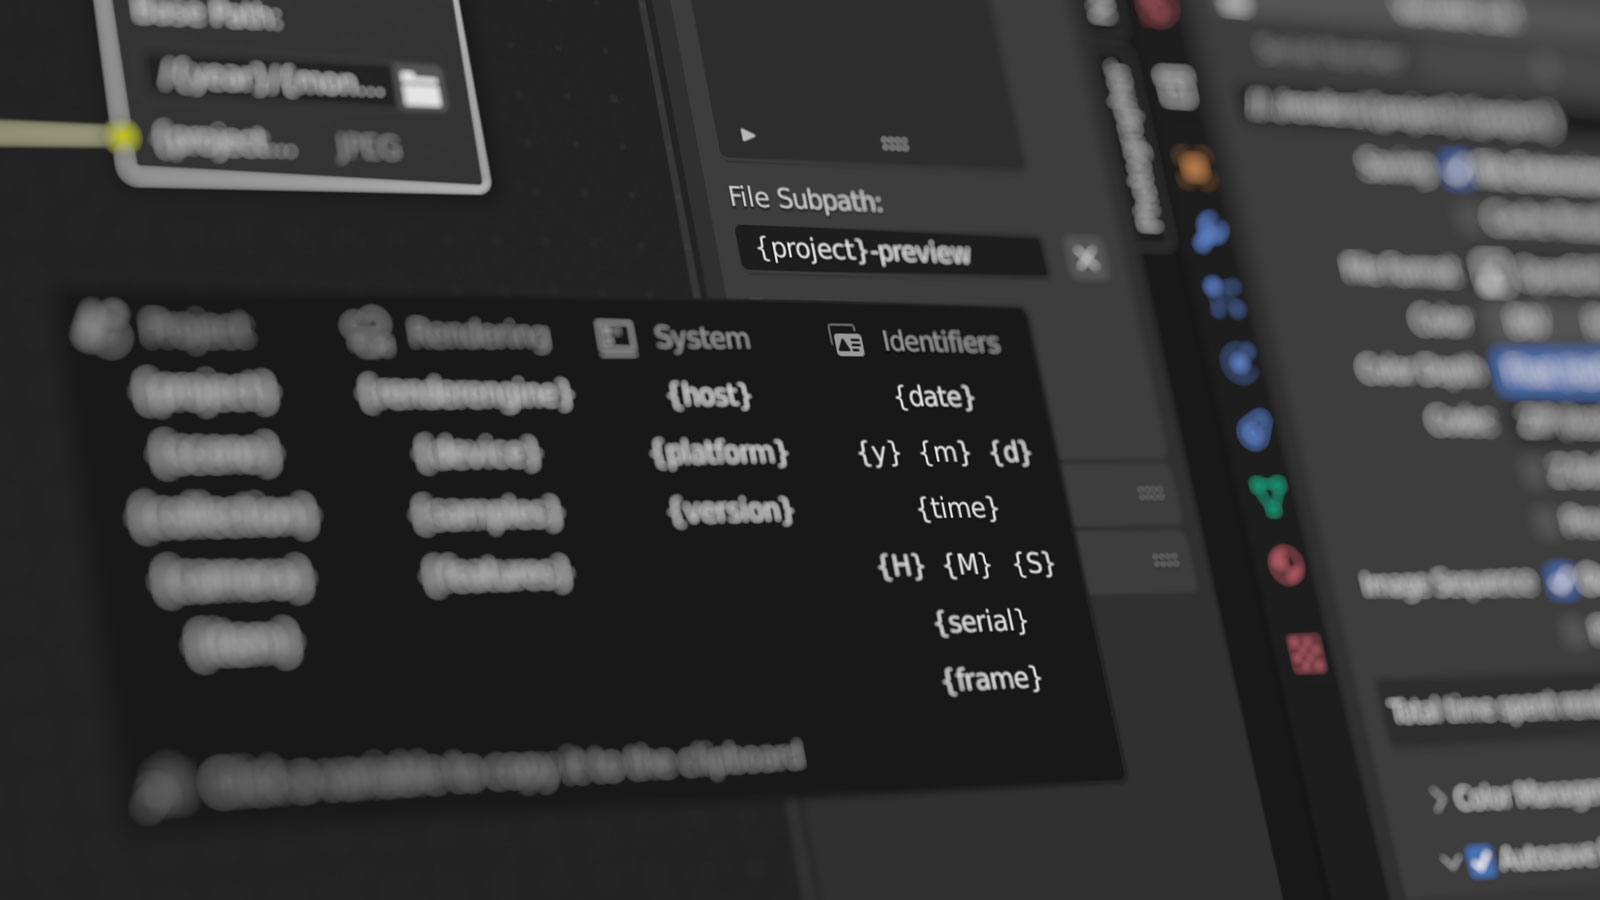
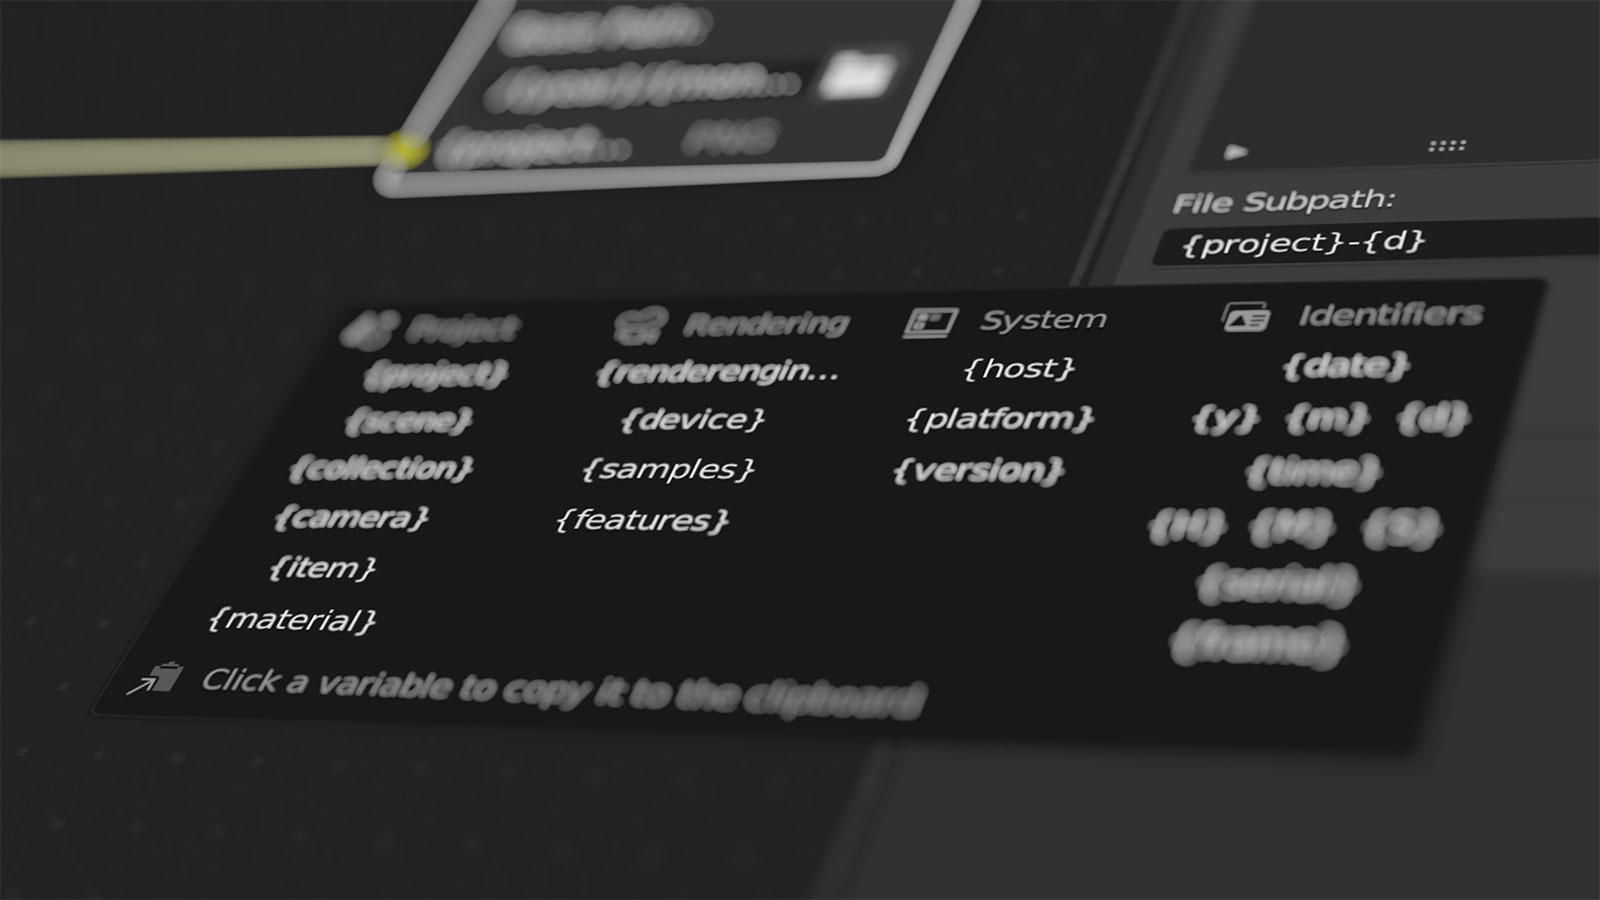
Adding active material of active object output variable

diff --git a/VF_autosaveRender.py b/VF_autosaveRender.py
@@ -1,7 +1,7 @@
 bl_info = {
 	"name": "VF Autosave Render + Output Variables",
 	"author": "John Einselen - Vectorform LLC, based on work by tstscr(florianfelix)",
-	"version": (2, 0, 8),
+	"version": (2, 0, 9),
 	"blender": (3, 2, 0),
 	"location": "Scene Output Properties > Output Panel > Autosave Render",
 	"description": "Automatically saves rendered images with custom naming",
@@ -48,7 +48,7 @@ IMAGE_EXTENSIONS = (
 	'tif'
 )
 
-variableArray = ["title,Project,SCENE_DATA", "{project}", "{scene}", "{collection}", "{camera}", "{item}",
+variableArray = ["title,Project,SCENE_DATA", "{project}", "{scene}", "{collection}", "{camera}", "{item}", "{material}",
 				"title,Rendering,CAMERA_DATA", "{renderengine}", "{device}", "{samples}", "{features}", "{rendertime}",
 				"title,System,DESKTOP", "{host}", "{platform}", "{version}",
 				"title,Identifiers,COPY_ID", "{date}", "{y},{m},{d}", "{time}", "{H},{M},{S}", "{serial}", "{frame}"]
@@ -432,6 +432,7 @@ def replaceVariables(string):
 	string = string.replace("{collection}", bpy.context.collection.name)
 	string = string.replace("{camera}", bpy.context.scene.camera.name)
 	string = string.replace("{item}", bpy.context.view_layer.objects.active.name if bpy.context.view_layer.objects.active else 'None')
+	string = string.replace("{material}", bpy.context.view_layer.objects.active.active_material.name if bpy.context.view_layer.objects.active and bpy.context.view_layer.objects.active.active_material else 'None')
 	# Rendering variables
 	string = string.replace("{renderengine}", renderEngine)
 	string = string.replace("{device}", renderDevice)

diff --git a/README.md b/README.md
@@ -1,6 +1,6 @@
 # VF Autosave Render + Output Variables
 
-Automatically saves a numbered or dated image after every render and extends the Blender output path and compositing output node with dynamic variables. This Blender add-on helps automate file naming (enabling easier and more advanced production workflows) and makes test renders easier to review and compare (saving what would otherwise be overwritten or lost when quitting the app).
+Automatically saves a numbered or dated image after every render and extends the Blender output path and compositing output node with dynamic variables. This Blender add-on helps automate file naming (enabling more advanced production workflows) and makes test renders easier to review and compare (saving what would otherwise be overwritten or lost when quitting the app).
 
 ![screenshot of the variable popup window in the compositing tab](images/banner.jpg)
 
@@ -17,7 +17,7 @@ _**Warning:**_ version 2 of this add-on changes the capitalisation of the file, 
 
 ![screenshot of Blender's Render Output user interface with the add-on installed](images/screenshot0-main.png)
 
-The default settings will work as-is, saving each render in a folder alongside the project file. But there's more...
+The default settings will work as-is, saving each render in a folder alongside the project file with automatic serialisation and JPG compression. But significant customisation is possible, especially through the use of output path and file name variables.
 
 
 
@@ -33,13 +33,13 @@ Add-on preferences are found in the Blender Preferences panel add-on tab, at the
 
 ### Render Time
 - `Show Project Render Time` toggles the "total time spent rendering" display in the Blender Output panel
-  - `Total Render Time` allows manual adjustment or resetting of the current project's render time tracking (this is the only non-global per-project value in the plugin settings panel)
+	- `Total Render Time` allows manual adjustment or resetting of the current project's render time tracking (this is the only non-global per-project value in the plugin settings panel)
 - `Save External Render Time Log` enables tracking of render time outside of the Blender file, supporting tracking during command line rendering (where the internal project value is typically not saved) or tallying the render time for all Blender projects in the same directory
-  - Sub-folders and relative paths can be used (not absolute paths)
-  - Only the `{project}` dynamic variable is supported
-  - The default string `{project}-TotalRenderTime.txt` will save a dynamically labeled file alongside the project (logging render time per-project since each log file would be named per-project)
-  - Using `TotalRenderTime.txt` will allow all Blender files in the same directory to use the same log file (logs would be per-directory, not per-project)
-  - Whereas `{project}/TotalRenderTime.txt` will save the log file inside the default autosave directory (this is specific to MacOS and Linux; backslash would be required in Windows)
+	- Sub-folders and relative paths can be used (not absolute paths)
+	- Only the `{project}` dynamic variable is supported
+	- The default string `{project}-TotalRenderTime.txt` will save a dynamically labeled file alongside the project (logging render time per-project since each log file would be named per-project)
+	- Using `TotalRenderTime.txt` will allow all Blender files in the same directory to use the same log file (logs would be per-directory, not per-project)
+	- Whereas `{project}/TotalRenderTime.txt` will save the log file inside the default autosave directory (this is specific to MacOS and Linux; backslash would be required in Windows)
 - `Estimate Remaining Render Time` turns on animation render time estimation in the render window menu bar (see the [Estimated Time Remaining](https://github.com/jeinselenVF/VF-BlenderAutosaveRender#estimated-time-remaining) section below for details)
 
 ### Global Autosave Overrides
@@ -55,56 +55,58 @@ Dynamic variables can be used in Blender's Output Path, in the Base Path and Fil
 
 ![screenshot of the add-on's custom variable popup window](images/screenshot3-variables.png)
 
-The available variables are sorted into four groups: Project (values derived from the project itself), Rendering (render engine settings), System (the computer system), and Identifiers (values typically unique to the time or iteration of the render).
+The available variables are sorted into four groups: Project (values derived from the project itself), Rendering (render engine settings), System (the computer system), and Identifiers (values unique to the time or iteration of the render).
 
 1. **Project variables**
-  - `{project}` = the name of the Blender file
-  - `{scene}` = current scene being rendered (if multiple scenes are used in the compositing tab, only the currently selected scene name will be used)
-  - `{collection}` = active collection (if no collection is selected or active, this will return the root "Scene Collection")
-  - `{camera}` = render camera (independent of selection or active status)
-  - `{item}` = active item (if no item is selected or active, this will return "None")
+	- `{project}` = the name of the Blender file
+	- `{scene}` = current scene being rendered (if multiple scenes are used in the compositing tab, only the currently selected scene name will be used)
+	- `{collection}` = active collection (if no collection is selected or active, this will return the root "Scene Collection")
+	- `{camera}` = render camera (independent of selection or active status)
+	- `{item}` = active item (if no item is selected or active, this will return "None")
+	- `{material}` = active material of active object (if not found, this will return "None")
+		- This variable may be more prone to failure because it requires both a selected object and an active material slot, and should only be used in scenarios where the active selection is well managed
 2. **Rendering variables**
-  - `{renderengine}` = name of the current rendering engine (uses the internal Blender identifier)
-  - `{device}` = CPU or GPU device
-    - Workbench and Eevee always use the GPU
-    - Cycles can be set to either CPU or GPU, but multiple enabled devices will not be listed
-    - Radeon ProRender can use both CPU and GPU simultaneously, and in the case of multiple GPUs, additional active devices will be added as "+GPU"
-    - LuxCore can be set to either CPU or GPU, but multiple enabled devices will not be listed
-  - `{samples}` = number of samples
-    - Workbench will return the type of antialiasing enabled
-    - Eevee will return the total number of samples, subsurface scattering samples, and volumetric samples
-    - Cycles will return the adaptive sampling threshold, maximum samples, and minimum samples
-    - Radeon ProRender will return the minimum samples, maximum samples, and the adaptive sampling threshold
-    - LuxCore will return the sample settings for adaptive strength, warmup samples, and test step samples (Path) or eye depth and light depth (Bidir)
-    - All outputs reflect the order displayed in the Blender interface
-  - `{features}` = enabled features or ray recursions
-    - Workbench will return the type of lighting used; STUDIO, MATCAP, or FLAT
-    - Eevee will list abbreviations for ambient occlusion, bloom, screen space reflections, and motion blur if enabled
-    - Cycles will return the maximum values set for total bounces, diffuse, glossy, transmission, volume, and transparent
-    - Radeon ProRender will return the maximum values set for total ray depth, diffuse, glossy, refraction, glossy refraction, and shadow
-    - LuxCore will return the halt settings, if enabled, for seconds, samples, and/or noise threshold with warmup samples and test step samples
-  - `{rendertime}` = time spent rendering (this is calculated within the script and may not _exactly_ match the render metadata, which is unavailable in the Python API)
+	- `{renderengine}` = name of the current rendering engine (uses the internal Blender identifier)
+	- `{device}` = CPU or GPU device
+		- Workbench and Eevee always use the GPU
+		- Cycles can be set to either CPU or GPU, but multiple enabled devices will not be listed
+		- Radeon ProRender can use both CPU and GPU simultaneously, and in the case of multiple GPUs, additional active devices will be added as "+GPU"
+		- LuxCore can be set to either CPU or GPU, but multiple enabled devices will not be listed
+	- `{samples}` = number of samples
+		- Workbench will return the type of antialiasing enabled
+		- Eevee will return the total number of samples, subsurface scattering samples, and volumetric samples
+		- Cycles will return the adaptive sampling threshold, maximum samples, and minimum samples
+		- Radeon ProRender will return the minimum samples, maximum samples, and the adaptive sampling threshold
+		- LuxCore will return the sample settings for adaptive strength, warmup samples, and test step samples (Path) or eye depth and light depth (Bidir)
+		- All outputs reflect the order displayed in the Blender interface
+	- `{features}` = enabled features or ray recursions
+		- Workbench will return the type of lighting used; STUDIO, MATCAP, or FLAT
+		- Eevee will list abbreviations for ambient occlusion, bloom, screen space reflections, and motion blur if enabled
+		- Cycles will return the maximum values set for total bounces, diffuse, glossy, transmission, volume, and transparent
+		- Radeon ProRender will return the maximum values set for total ray depth, diffuse, glossy, refraction, glossy refraction, and shadow
+		- LuxCore will return the halt settings, if enabled, for seconds, samples, and/or noise threshold with warmup samples and test step samples
+	- `{rendertime}` = time spent rendering (this is calculated within the script and may not _exactly_ match the render metadata, which is unavailable in the Python API)
 3. **System variables**
-  - `{host}` = name of the computer or host being used for rendering
-  - `{platform}` = operating system of the computer being used for rendering (example: "macOS-12.6-x86_64-i386-64bit")
-  - `{version}` = Blender version and status (examples: "3.3.1-release" or "3.4.0-alpha")
+	- `{host}` = name of the computer or host being used for rendering
+	- `{platform}` = operating system of the computer being used for rendering (example: "macOS-12.6-x86_64-i386-64bit")
+	- `{version}` = Blender version and status (examples: "3.3.1-release" or "3.4.0-alpha")
 4. **Identifier variables**
-  - `{date}` = current date in YYYY-MM-DD format
-    - This is a combined shortcut for the individual date variables below
-  - `{y}` or `{year}` = current year in YYYY format
-  - `{m}` or `{month}` = current month in MM format
-  - `{d}` or `{day}` = current day in DD format
-  - `{time}` = current time in HH-MM-SS 24-hour format
-    - This is a combined shortcut for the individual time variables below
-    - Note the uppercase capitalisation for the shorthand time variables, distinguishing them from the shorthand date variables
-  - `{H}` or `{hour}` = current hour in HH 24-hour format
-  - `{M}` or `{minute}` = current minute in MM format
-  - `{S}` or `{second}` = current second in SS format
-  - `{serial}` = automatically incremented serial number padded to 4 digits
-    - While this variable can be used in the autosave path and custom string, the output path, and in compositing tab file output nodes, the serial number for autosaving versus the other file output methods is separate so that test renders can use their own serial number tracking
-    - The `Serial Number` input fields are enabled only when the `{serial}` variable appears in the associated path or file name, and will automatically increment every time a render is saved
-    - Files may be overwritten if this counter is manually reset; both a feature and a danger
-  - `{frame}` = current frame number (padded to four digits)
+	- `{date}` = current date in YYYY-MM-DD format
+		- This is a combined shortcut for the individual date variables below
+	- `{y}` or `{year}` = current year in YYYY format
+	- `{m}` or `{month}` = current month in MM format
+	- `{d}` or `{day}` = current day in DD format
+	- `{time}` = current time in HH-MM-SS 24-hour format
+		- This is a combined shortcut for the individual time variables below
+		- Note the uppercase capitalisation for the shorthand time variables, distinguishing them from the shorthand date variables
+	- `{H}` or `{hour}` = current hour in HH 24-hour format
+	- `{M}` or `{minute}` = current minute in MM format
+	- `{S}` or `{second}` = current second in SS format
+	- `{serial}` = automatically incremented serial number padded to 4 digits
+		- While this variable can be used in the autosave path and custom string, the output path, and in compositing tab file output nodes, the serial number for autosaving versus the other file output methods is separate so that test renders can use their own serial number tracking
+		- The `Serial Number` input fields are enabled only when the `{serial}` variable appears in the associated path or file name, and will automatically increment every time a render is saved
+		- Files may be overwritten if this counter is manually reset; both a feature and a danger
+	- `{frame}` = current frame number (padded to four digits)
 
 _**Warning:**_ using a custom string may result in overwriting or failing to save files if the generated name is not unique. For example, if date and time or serial number variables are not included.
 
@@ -117,29 +119,29 @@ _**Warning:**_ using a custom string may result in overwriting or failing to sav
 Project settings are found at the bottom of the Render Output panel and are unique per-project. Automatic saving of every render can be disabled by unchecking `Autosave Render`, which is turned on by default.
 
 - `Variable List`
-  - This opens a reference panel with all of the variables that can be used in either the `file location` or `custom string` strings below
-  - Clicking on a variable will copy it to the clipboard, ready for pasting wherever it's needed in an output path or file name
+	- This opens a reference panel with all of the variables that can be used in either the `file location` or `custom string` strings below
+	- Clicking on a variable will copy it to the clipboard, ready for pasting wherever it's needed in an output path or file name
 
 - `Serial Number`
-  - This is the local project serial number for autosaved files, independent of the serial number for output files, and will be unused if file location or file name inputs are replaced with a global override in the `Blender Preferences > Add-on` window, which uses the serial number saved in the plugin preferences
-  - It will be greyed out if the variable `{serial}` does not appear in the `file location ` or `custom string` inputs
+	- This is the local project serial number for autosaved files, independent of the serial number for output files, and will be unused if file location or file name inputs are replaced with a global override in the `Blender Preferences > Add-on` window, which uses the serial number saved in the plugin preferences
+	- It will be greyed out if the variable `{serial}` does not appear in the `file location ` or `custom string` inputs
 
 - `Autosave Location`
-  - Leave a single forward slash `/` to automatically generate a folder with the same name and in the same directory as the Blender project
-  - Or select a specific directory such as `/project/renders/autosave/` to automatically save all renders to the same location
+	- Leave a single forward slash `/` to automatically generate a folder with the same name and in the same directory as the Blender project
+	- Or select a specific directory such as `/project/renders/autosave/` to automatically save all renders to the same location
 
 - `File Name`
-  - `Project Name + Serial Number` uses the name of the Blender file and an auto-generated serial number (it will detect any existing files in the autosave location and increment the highest number found)
-  - `Project Name + Date & Time` uses the name of the blender file and the local date and time (formatted YYYY-MM-DD HH-MM-SS using 24 hour time)
-  - `Project Name + Render Engine + Render Time` uses the name of the blender file, the name of the render engine, and the time it took to render
-    - When a sequence is rendered, only the final frame will be saved and this value will be the total sequence render time, not the per-frame render time
-  - `Custom String` uses the dynamic variables listed above to allow for entirely unique file naming patterns
+	- `Project Name + Serial Number` uses the name of the Blender file and an auto-generated serial number (it will detect any existing files in the autosave location and increment the highest number found)
+	- `Project Name + Date & Time` uses the name of the blender file and the local date and time (formatted YYYY-MM-DD HH-MM-SS using 24 hour time)
+	- `Project Name + Render Engine + Render Time` uses the name of the blender file, the name of the render engine, and the time it took to render
+		- When a sequence is rendered, only the final frame will be saved and this value will be the total sequence render time, not the per-frame render time
+	- `Custom String` uses the dynamic variables listed above to allow for entirely unique file naming patterns
 
 - `File Format`
-  - `Project Setting` will use the same format as set in the Render Output panel (see note below about multilayer EXR limitations)
-  - `PNG`
-  - `JPEG`
-  - `OpenEXR`
+	- `Project Setting` will use the same format as set in the Render Output panel (see note below about multilayer EXR limitations)
+	- `PNG`
+	- `JPEG`
+	- `OpenEXR`
 
 File formats will use whatever compression preferences have been set in the project file. If you want to render animations using the PNG format, but save previews using JPG with a specific compression level, temporarily choose JPG as the Blender output format and customise the settings, then switch back to PNG. When the add-on saves the render file, it'll use the (now invisible) JPG settings saved in the project file.
 
@@ -180,10 +182,10 @@ The estimation will only show up after the first frame of an animation sequence 
 ## Notes
 
 - Autosaving a render depends on the Blender project file having been saved at least once in order to export images, otherwise there is no project name or local directory for the add-on to work with
-  - An alternative version of the plugin that supports unsaved projects is [available in this older branch](https://github.com/jeinselenVF/VF-BlenderAutosaveRender/tree/Support_Unsaved_Projects)
-- Only the final frame will be autosaved when rendering animation sequences, preventing mass duplication but still allowing for total render time to be saved in the file name (if used in the `Custom String` setting)
+	- An alternative version of the plugin that supports unsaved projects is [available in this older branch](https://github.com/jeinselenVF/VF-BlenderAutosaveRender/tree/Support_Unsaved_Projects)
+- Only the final frame will be autosaved when rendering animation sequences, preventing mass duplication of frames but still allowing for total render time to be saved in the file name (if included with the `Custom String` setting)
 - Total internal render time will continue to increment even when auto file saving is toggled off in the output panel
-- Total internal render time will not increment when rendering files from the command line, since it depends on being saved within the project file (the command line interface doesn't typically save the project file after rendering is completed)
+- Total internal render time will not increment when rendering files from the command line, since it depends on being saved within the project file (the command line interface doesn't typically save the project file after rendering is completed unless otherwise triggered)
 - The Blender Python API `image.save_image` has a known bug that [prevents the saving of multilayer EXR files](https://developer.blender.org/T71087), saving only a single layer file instead
-  - I'm not aware of any reasonable workarounds, simply waiting for the Blender team to fix the issue
+	- I'm not aware of any reasonable workarounds, currently waiting for the Blender team to fix the issue
 - This add-on is provided as-is with no warranty or guarantee regarding suitability, security, safety, or otherwise. Use at your own risk.
